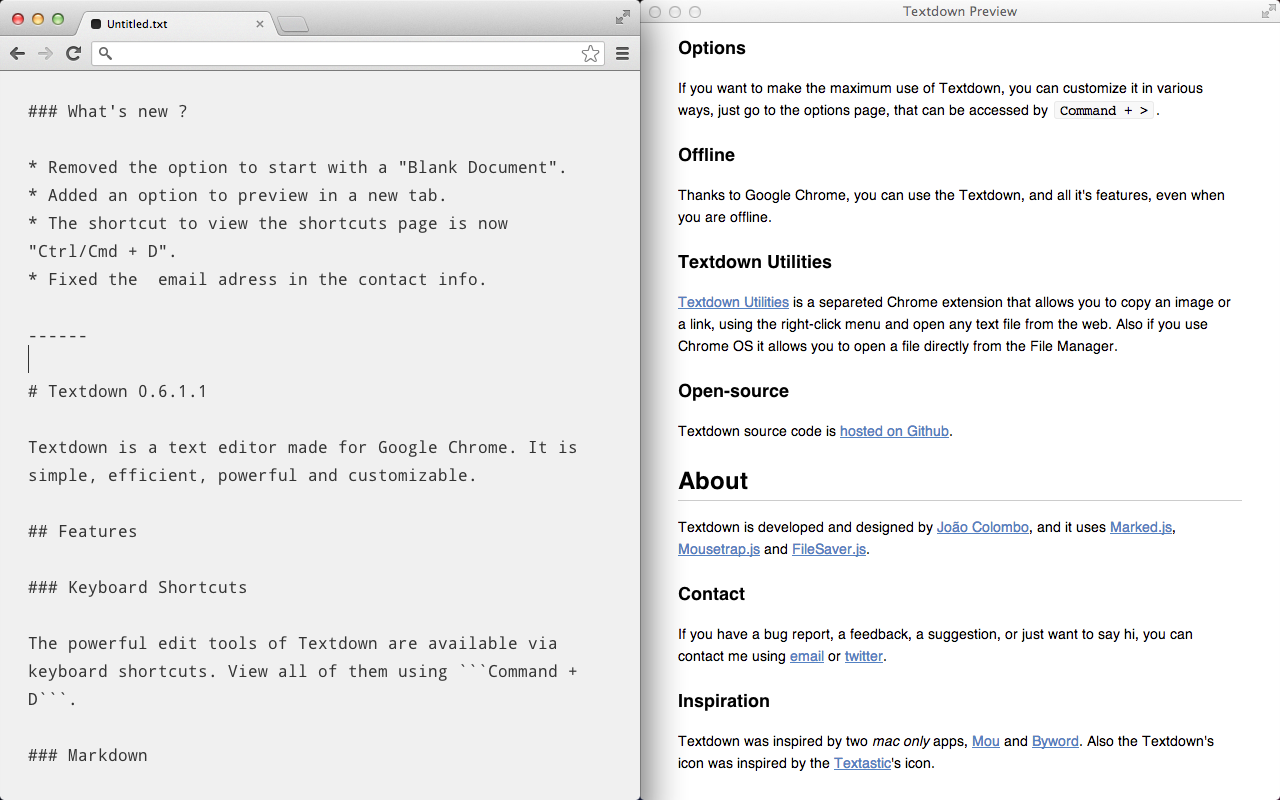
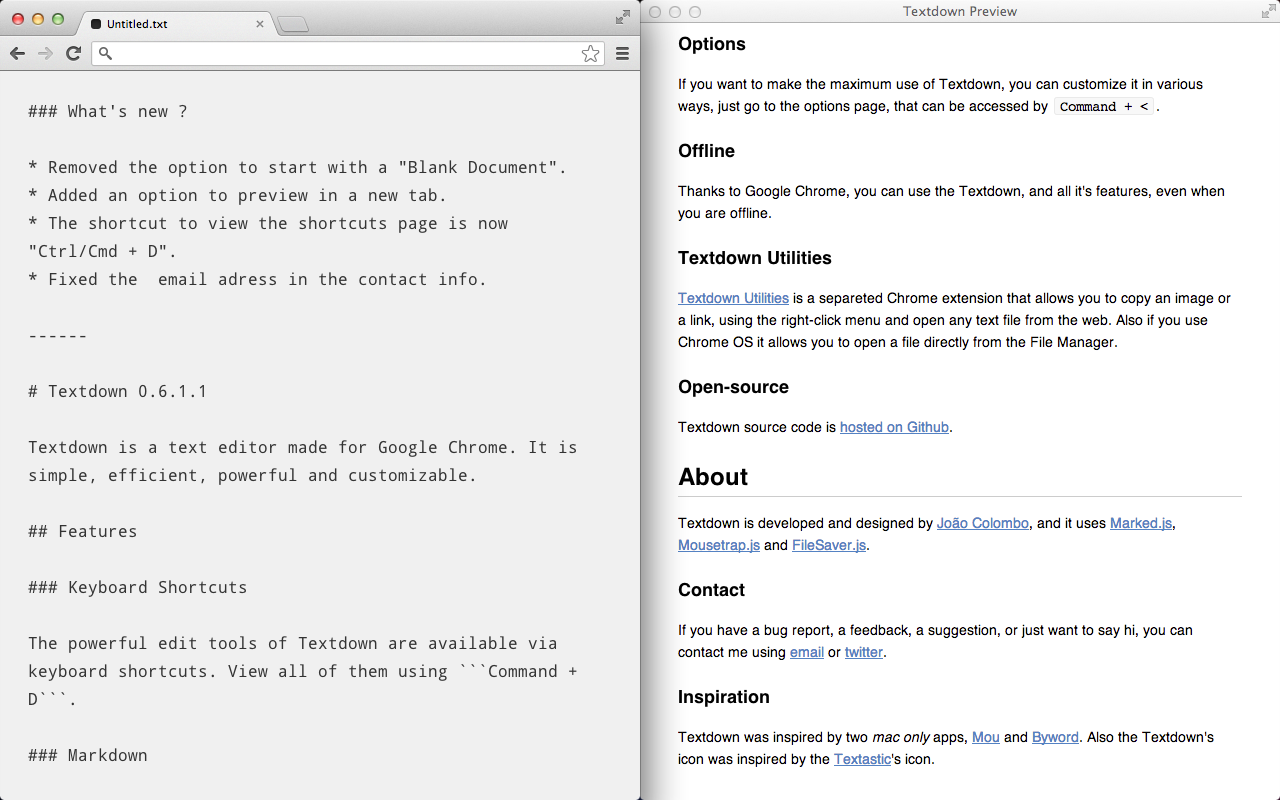
0.6.1.2

diff --git a/Textdown/editor.html b/Textdown/editor.html
@@ -131,7 +131,7 @@ As in the iOS and Android, Textdown allows you to easily use words shortcuts, ab
 
 ### Options
 
-If you want to make the maximum use of Textdown, you can customize it in various ways, just go to the options page, that can be accessed by ```Command + >```.
+If you want to make the maximum use of Textdown, you can customize it in various ways, just go to the options page, that can be accessed by ```Command + <```.
 
 ### Offline
 
